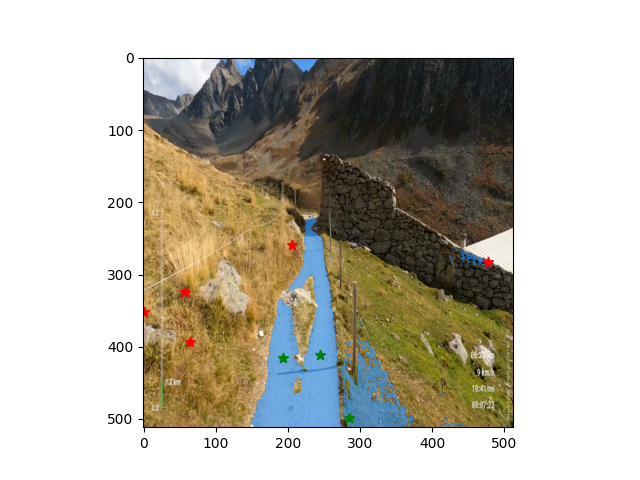
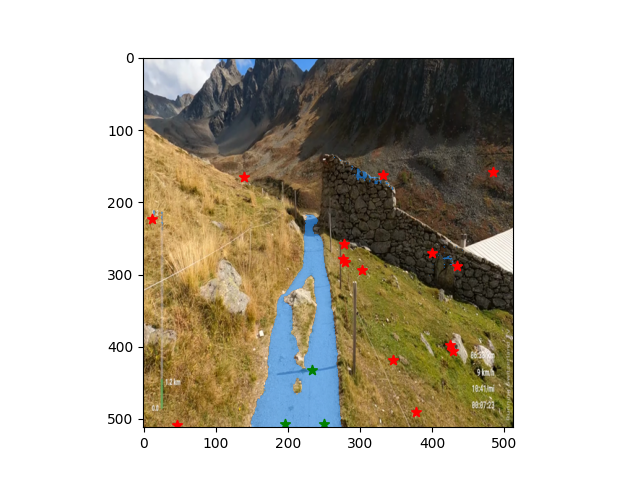
pushing for nicole

diff --git a/models.py b/models.py
@@ -210,13 +210,12 @@ class ClipSegSAM(ClipSegBase):
     - sample pixel locations from the clipseg mask and pass them to segment anything
     """
 
-    def __init__(self, data_path: str, word_mask: str, obstacle_prompt : str) -> None:
+    def __init__(self, data_path: str, word_mask: str, positive_samples : int, negative_samples : int) -> None:
         super().__init__(data_path, word_mask)
         sam = sam_model_registry["vit_h"](checkpoint='checkpoints/sam_vit_h_4b8939.pth').to(self.device)
         self.sam = SamPredictor(sam)
-        self.obstacle_prompt = obstacle_prompt
-        self.num_positive_points = 3
-        self.num_negative_points = 6
+        self.num_positive_points = positive_samples
+        self.num_negative_points = negative_samples
     
     def __call__(self, file):
         image = Image.open(os.path.join(self.data_path,file))
@@ -226,7 +225,7 @@ class ClipSegSAM(ClipSegBase):
         # combined_mask = self.combineObstacleAndPathMasks(mask_path=mask_path, mask_obstacle=mask_obstacle)
 
         self.sam.set_image(np.asarray(init_image))
-        coords, labels = self.sample_coords(mask=mask_path)
+        coords, labels = self.sample_coords_unfiorm(mask=mask_path)
 
         mask, _, _ = self.sam.predict(
             point_coords=coords,
@@ -258,14 +257,14 @@ class ClipSegSAM(ClipSegBase):
                 point = np.clip(point, 0, 512)
                 coords[impact, :] = point
                 impact += 1
-        
+
+        print('looking for negative points')
         while True :
-            # neg_ind = np.random.uniform(size=(self.num_negative_points,), low=0, high=len(negative_slice)).astype(np.uint32)
-            neg_ind = np.random.randn(self.num_negative_points,2).astype(np.uint32)*50 + mean
-            if any(neg_ind) in points:
-                negative_points = negative_slice[neg_ind]
-                d = [cdist(p.reshape(1,2), points) for p in negative_points]
-                if np.min(d) >= 5 and np.max(d) <= 100 : break
+            neg_ind = np.random.uniform(size=(self.num_negative_points,), low=0, high=len(negative_slice)).astype(np.uint32)
+            # neg_ind = np.random.randn(self.num_negative_points,2).astype(np.uint32)*50 + mean
+            negative_points = negative_slice[neg_ind]
+            d = [cdist(p.reshape(1,2), points) for p in negative_points]
+            if np.min(d) >= 5: break
         
         coords[self.num_positive_points:,:] = negative_points
             
@@ -282,9 +281,18 @@ class ClipSegSAM(ClipSegBase):
     def sample_coords_unfiorm(self, mask : Image):
         positive_slice = np.argwhere(np.asarray(mask)[:,:,0] != 0)
         negative_slice = np.argwhere(np.asarray(mask)[:,:,0] == 0)
+        negative_slice = negative_slice[negative_slice[:,0] >= 250, :]
         pos_ind = np.random.uniform(size=(self.num_positive_points,), low=0, high=len(positive_slice)).astype(np.uint32)
-        neg_ind = np.random.uniform(size=(self.num_negative_points,), low=0, high=len(negative_slice)).astype(np.uint32)
-        positive_points, negative_points = positive_slice[pos_ind], negative_slice[neg_ind]
+        # neg_ind = np.random.uniform(size=(self.num_negative_points,), low=0, high=len(negative_slice)).astype(np.uint32)
+        positive_points = positive_slice[pos_ind]
+
+        while True :
+            neg_ind = np.random.uniform(size=(self.num_negative_points,), low=0, high=len(negative_slice)).astype(np.uint32)
+            # neg_ind = np.random.randn(self.num_negative_points,2).astype(np.uint32)*50 + mean
+            negative_points = negative_slice[neg_ind]
+            d = [cdist(p.reshape(1,2), positive_points) for p in negative_points]
+            if np.min(d) >= 30: break
+
         points = np.vstack([positive_points, negative_points])
         coords = np.zeros(points.shape)
         coords[:,1], coords[:,0] = points[:,0], points[:,1]

diff --git a/eval.py b/eval.py
@@ -34,17 +34,20 @@ def main(mode : str):
             out.save(f'{images_dir}/{file}')
 
     elif 'sam':
+        positive = range(2,10)
+        negative = range(3,15)
         pipeline = ClipSegSAM(
             data_path='hike/road',
             word_mask='A bright photo of a road to walk on',
-            obstacle_prompt='A dull photo of bulky or voluminous obstacles that are bigger than 50 centimeters'
+            positive_samples=3,
+            negative_samples=10
         )
         files = pipeline.loadData()
         images_dir = './processed_hike/testing_sam'
 
-        for file in tqdm(files):
+        for file in files:
             init_image, mask_path, sam_mask, coords, labels = pipeline(file)
-            out = combine(init_image, mask_path, sam_mask, coords=coords, labels=labels)
+            out = combine(init_image, sam_mask, coords=coords, labels=labels)
             out.save(f'{images_dir}/{file}')
 
 
